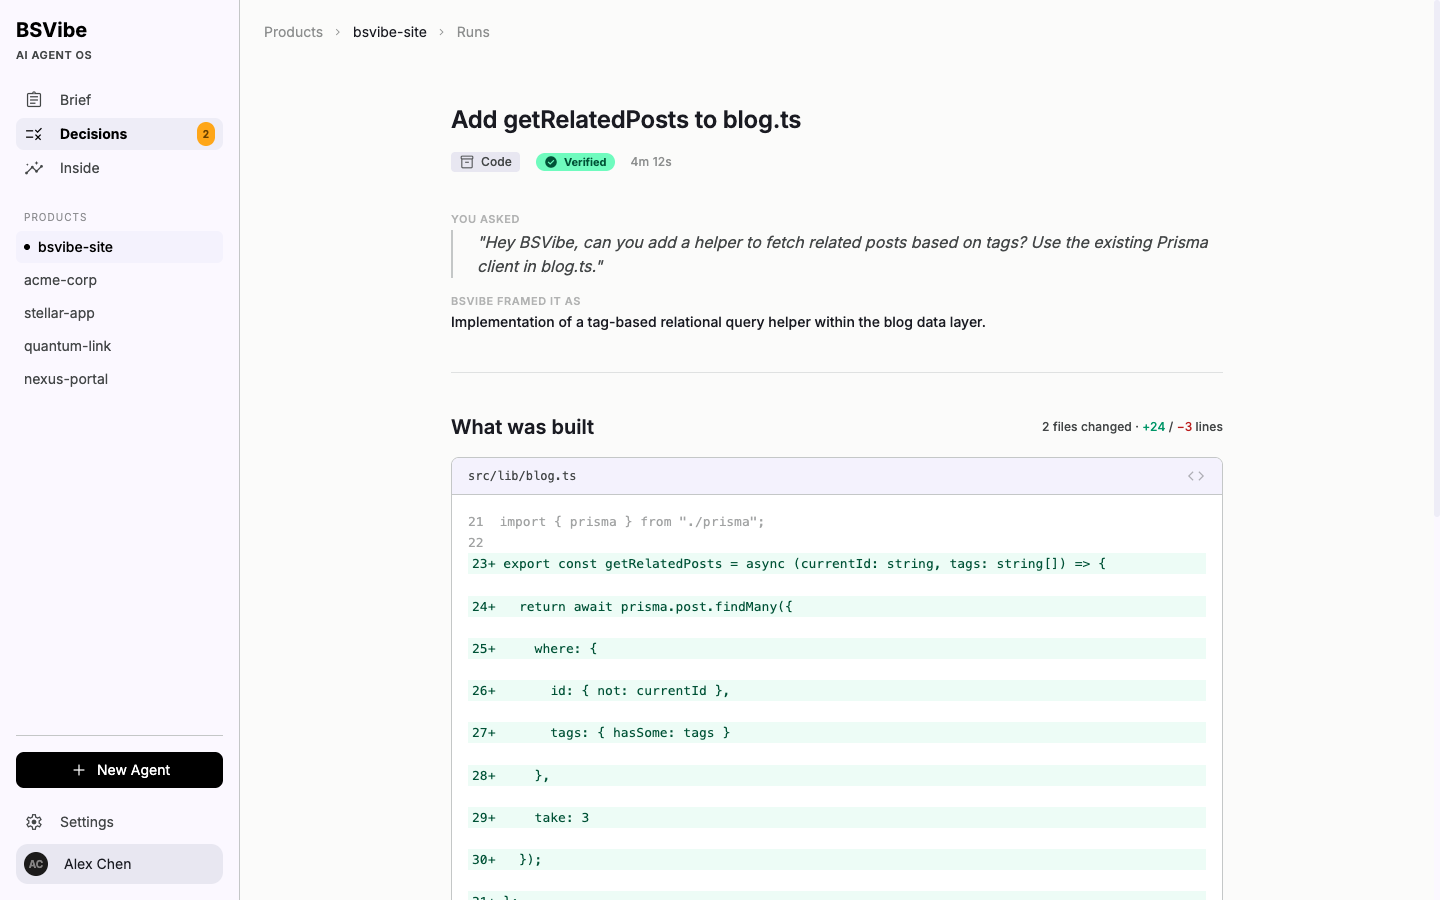
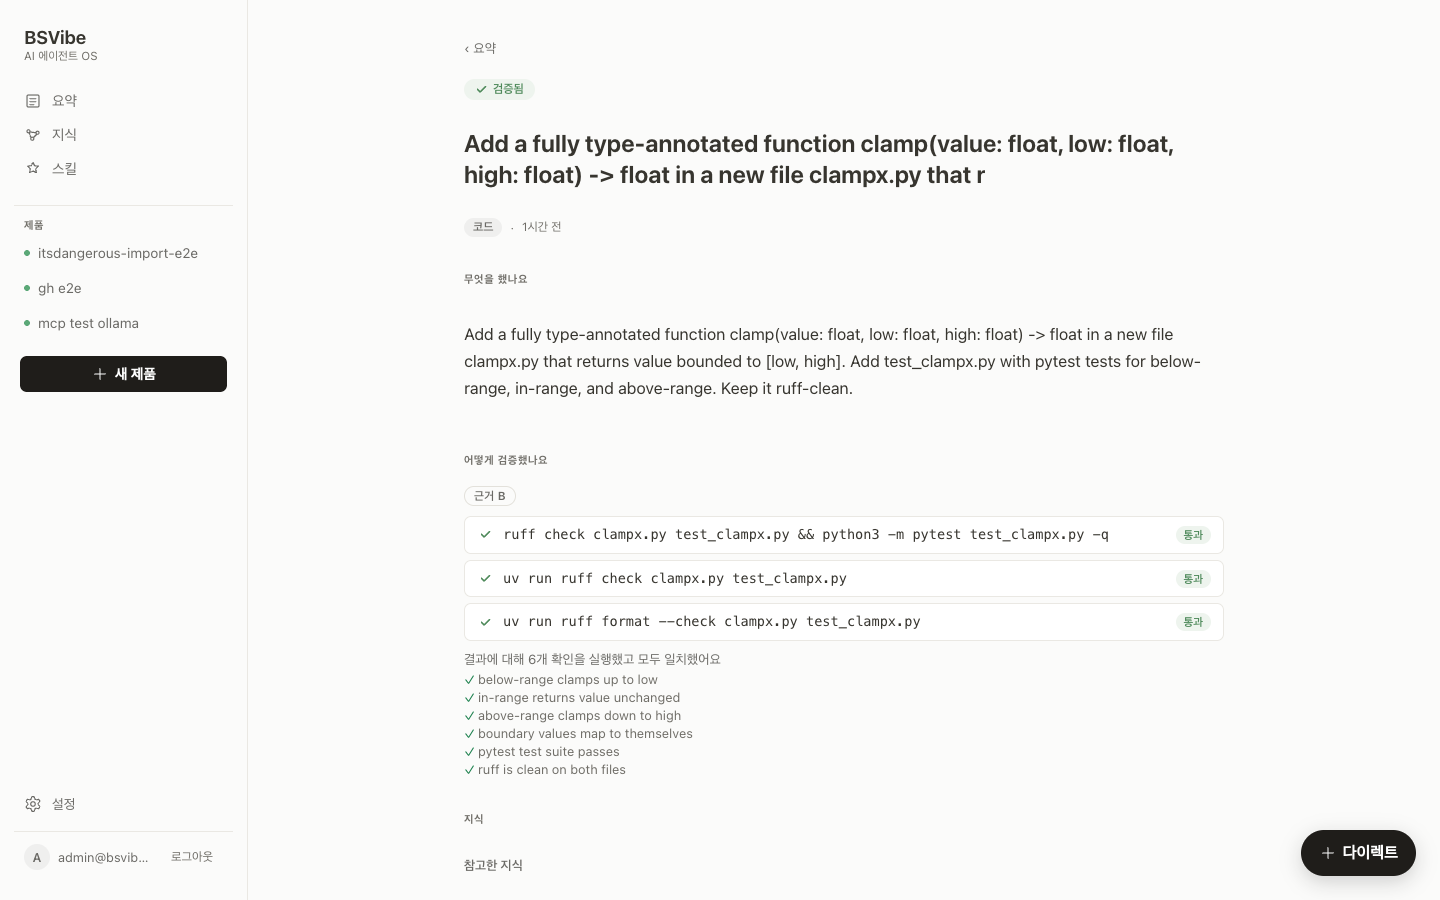
feat(screens): recapture live app screenshots + surface knowledge graph
- brief.png: real 요약 ledger (waiting / running / done at a glance)
- delivery-report.png: post-redesign report with Evidence grade (근거 B),
  independent checks + demonstration probe (the honest-proof hero)
- decide.png: real 확인 필요 inbox (Decisions + Safe Mode hold/approve)
- knowledge.png: force-directed knowledge graph — new first-class surface,
  replaces the retired auto-trigger/Safe-Mode shot
- how-it-works: swap the Safe Mode feature block for a Knowledge block;
  Safe Mode folds into the Decisions copy + guardrails tile
- all 4 captured at 1440x900 from the live app, no re-mocking

diff --git a/src/content/marketing.ts b/src/content/marketing.ts
@@ -102,16 +102,16 @@ export const screenshots = {
     src: '/images/screens/delivery-report.png',
     alt: { ko: 'BSVibe Delivery Report 화면', en: 'BSVibe Delivery Report screen' },
     caption: {
-      ko: '실제 BSVibe 화면 — Delivery Report (검증된 결과)',
-      en: 'Actual BSVibe — Delivery Report (verified work)',
+      ko: '실제 BSVibe 화면 — Delivery Report (근거 등급까지 보이는 검증)',
+      en: 'Actual BSVibe — Delivery Report (verification, down to the grade)',
     },
   },
   brief: {
     src: '/images/screens/brief.png',
     alt: { ko: 'BSVibe Brief 현황 화면', en: 'BSVibe Brief overview screen' },
     caption: {
-      ko: '실제 BSVibe 화면 — Brief (현황 한눈에)',
-      en: 'Actual BSVibe — Brief (everything at a glance)',
+      ko: '실제 BSVibe 화면 — Brief (대기·진행·완료 한눈에)',
+      en: 'Actual BSVibe — Brief (waiting, running, done at a glance)',
     },
   },
   decide: {
@@ -119,15 +119,16 @@ export const screenshots = {
     alt: { ko: 'BSVibe 결정(Decisions) 화면', en: 'BSVibe Decisions screen' },
     caption: { ko: '실제 BSVibe 화면 — 결정(Decisions)', en: 'Actual BSVibe — Decisions' },
   },
-  triggered: {
-    src: '/images/screens/triggered.png',
-    alt: {
-      ko: 'BSVibe 자동 트리거 & Safe Mode 화면',
-      en: 'BSVibe trigger & Safe Mode screen',
-    },
+  // Knowledge is a first-class app surface now (the graph corrections
+  // accumulate into) — replaced the retired auto-trigger/Safe-Mode shot.
+  // Safe Mode lives on as the "안전 모드에 보류" gate visible in the Decisions
+  // (decide) screen + the under-the-hood guardrails tile.
+  knowledge: {
+    src: '/images/screens/knowledge.png',
+    alt: { ko: 'BSVibe 지식 그래프 화면', en: 'BSVibe knowledge graph screen' },
     caption: {
-      ko: '실제 BSVibe 화면 — 자동 트리거 & Safe Mode',
-      en: 'Actual BSVibe — Auto-trigger & Safe Mode',
+      ko: '실제 BSVibe 화면 — 지식 그래프 (쌓이는 지식)',
+      en: 'Actual BSVibe — Knowledge graph (what accumulates)',
     },
   },
 } satisfies Record<string, Screenshot>;
@@ -288,15 +289,15 @@ export const howItWorks = {
   decide: {
     heading: { ko: '결정이 필요할 때만 부릅니다', en: 'Calls only when a decision is needed' },
     body: {
-      ko: '취향·범위·방향처럼 혼자 정하면 안 되는 갈림길만 올라옵니다. 답하는 순간 그 자리에서 이어서 진행하고, 그 선택은 다음을 위한 기준으로 기억됩니다.',
-      en: 'Only genuine forks (taste, scope, direction) come up. The moment one is answered, the work resumes, and that choice becomes the standard next time.',
+      ko: '취향·범위·방향처럼 혼자 정하면 안 되는 갈림길만 올라옵니다. 푸시·머지·발송처럼 되돌리기 어려운 일은 안전 모드에 보류되어, 승인 전엔 밖으로 나가지 않습니다. 답하는 순간 그 자리에서 이어서 진행하고, 그 선택은 다음을 위한 기준으로 기억됩니다.',
+      en: 'Only genuine forks (taste, scope, direction) come up, and hard-to-undo actions (push, merge, send) sit in Safe Mode, never going out before approval. The moment one is answered, the work resumes, and that choice becomes the standard next time.',
     },
   },
-  safeMode: {
-    heading: { ko: '밖으로 나가는 건, 승인 후에', en: 'Nothing leaves until approved' },
+  knowledge: {
+    heading: { ko: '쌓이는 지식 그래프', en: 'A knowledge graph that grows' },
     body: {
-      ko: '푸시·머지·발송처럼 되돌리기 어려운 작업은 승인 전엔 밖으로 나가지 않습니다.',
-      en: 'Hard-to-undo actions (push, merge, send) never go out before approval.',
+      ko: '결정·선호·반려·회고가 지식 그래프에 노트로 쌓이고 서로 연결됩니다. 다음 작업은 여기서 알아서 참고하고, 무엇을 아는지 언제든 열어볼 수 있습니다.',
+      en: 'Decisions, preferences, rejections, and retrospectives accumulate as linked notes in a knowledge graph. The next task draws on it by itself, and what it knows is there to browse anytime.',
     },
   },
   underHood: {

diff --git a/src/components/marketing/HowItWorks.tsx b/src/components/marketing/HowItWorks.tsx
@@ -90,11 +90,11 @@ export default function HowItWorks({ locale = 'ko' }: { locale?: Locale }) {
         h={900}
       />
 
-      {/* SAFE MODE — Triggered */}
+      {/* KNOWLEDGE — the graph corrections accumulate into */}
       <FeatureBlock
-        heading={H.safeMode.heading[locale]}
-        body={H.safeMode.body[locale]}
-        shot={screenshots.triggered}
+        heading={H.knowledge.heading[locale]}
+        body={H.knowledge.body[locale]}
+        shot={screenshots.knowledge}
         locale={locale}
         w={1440}
         h={900}

diff --git a/tests/marketing.test.ts b/tests/marketing.test.ts
@@ -170,4 +170,12 @@ describe('current-app positioning (2026-07 refresh)', () => {
     expect(M.screenshots.decide.caption.en).toContain('Decisions');
     expect(M.screenshots.decide.caption.ko).not.toContain('Decide');
   });
+
+  it('ships a knowledge-graph screen and retires the legacy auto-trigger shot', () => {
+    expect(M.screenshots).toHaveProperty('knowledge');
+    expect(M.screenshots.knowledge.src).toBe('/images/screens/knowledge.png');
+    // the retired 4-product-adjacent "auto-trigger/Safe Mode" screen is gone
+    expect(M.screenshots).not.toHaveProperty('triggered');
+    expect(JSON.stringify(M.screenshots)).not.toContain('triggered.png');
+  });
 });